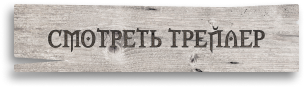
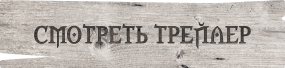
day two: added styles for desctop

diff --git a/index.html b/index.html
@@ -5,12 +5,17 @@
     <meta charset="UTF-8">
     <meta name="viewport" content="width=device-width, initial-scale=1.0">
     <title>The Witcher | Ведьмак | 2 сезон 17 декабря</title>
+    <link rel="preload" 
+          href="fonts/ibm-plex-mono-latin_cyrillic-500.woff2"
+          as="font"
+          type="font/woff2"
+          crossorigin>
     <link rel="stylesheet" href="css/index.css">
 </head>
 
 <body>
     <header class="header">
-        <div class="container">
+        <div class="container header__container">
             <img src="images/logo.svg" alt="logo: The Witcher" class="header__logo">
             <p class="header__announcment">
                 2 сезон уже с 17 декабря
@@ -45,7 +50,7 @@
                     Те, кто связан предназначением, всегда найдут друг друга
                 </p>
 
-                <a href="https://youtu.be/aTPPmHqMZOw" class="present__btn">Смотреть</a>
+                <a href="https://youtu.be/aTPPmHqMZOw" class="present__btn"></a>
             </div>
             <div class="present__tabs tabs">
                 <ul class="tabs__control">

diff --git a/css/product.css b/css/product.css
@@ -1,0 +1,61 @@
+.product {}
+
+.product__img {
+    width: 100%;
+    height: 176px;
+    object-fit: cover;
+    object-position: center;
+    margin-bottom: 10px;
+}
+
+.product__title {
+    font-size: 20px;
+    line-height: 120%;
+    margin-bottom: 5px;
+}
+
+.product__wrapper-buy {
+	display: flex;
+	justify-content: space-between;
+	align-items: center;
+}
+
+.product__price {
+
+}
+
+.product__btn-buy {
+	border-radius: 50%;
+	background-color: transparent;
+	display: flex;
+	justify-content: center;
+	align-items: center;
+	border: 1px solid transparent;
+	color: #fff;
+	width: 36px;
+	height: 36px;
+	outline: none;
+	transition: background-color .3s ease-in-out,
+				border-color .3s ease-in-out,
+				color .2s ease-in-out;
+}
+
+.product__btn-buy:hover {
+	background-color: rgba(255, 255, 255, 0.19);
+}
+
+.product__btn-buy:focus {
+	background-color: rgba(255, 255, 255, 0.19);
+	border-color: #9B9B9B;
+	color: #fff;
+}
+
+.product__btn-buy:active {
+	background-color: rgba(255, 255, 255, 0.19);
+	color: #b3b3b3;
+}
+
+.product__btn-icon {
+    width: 24px;
+    height: 24px;
+}

diff --git a/css/navigation.css b/css/navigation.css
@@ -1,0 +1,41 @@
+.navigation__list {
+	display: flex;
+	gap: 25px;
+}
+
+.navigation__link {
+	background-color: rgba(255, 255, 255, 0.7);
+	border: 1px solid transparent;
+	border-radius: 50%;
+	display: block;
+	width: 40px;
+	height: 40px;
+	transition: border .3s ease-in-out, box-shadow .3s ease-in-out;
+	outline: none;
+}
+
+.navigation__link:focus {
+	border-color: #5b5b5b;
+}
+
+.navigation__link:active, .navigation__link:hover {
+	box-shadow: 0px 1px 5px rgba(0, 0, 0, 0.7);
+}
+
+.navigation__link_netflix {
+	background-image: url('../images/netflix-logo.svg');
+	background-position: center;
+	background-repeat: no-repeat;
+}
+
+.navigation__link_okko {
+	background-image: url('../images/okko-logo.svg');
+	background-position: center;
+	background-repeat: no-repeat;
+}
+
+.navigation__link_kinopoisk {
+	background-image: url('../images/kinopoisk-logo.svg');
+	background-position: center;
+	background-repeat: no-repeat;
+}

diff --git a/css/tabs.css b/css/tabs.css
@@ -1,0 +1,55 @@
+.tabs__control {
+	display: flex;
+	justify-content: space-between;
+	align-items: center;
+	background-color: rgba(0, 0, 0, 0.7);
+	max-width: 285px;
+	margin-left: auto;
+	margin-bottom: 12px;
+	padding: 13px 21px;
+}
+
+.present__tabs {
+
+}
+
+.tabs__control {
+
+}
+
+.tabs__btn-wrapper {
+
+}
+
+.tabs__btn {
+	background-color: transparent;
+	border-width: 0;
+	border-bottom: 2px solid transparent;
+	color: #fff;
+	font-weight: bold;
+	line-height: 1.1;
+	transition: border-color .3s ease-in-out;
+}
+
+.tabs__btn_active {
+	border-color: #fff;
+}
+
+.tabs__list {
+
+}
+
+.tabs__item {
+
+}
+
+.tabs__item_active {
+
+}
+
+.tabs__content {
+	display: flex;
+	justify-content: space-between;
+	gap: 30px;
+}
+

diff --git a/css/present.css b/css/present.css
@@ -1,0 +1,33 @@
+.present {
+	padding-top: 25px;
+}
+
+.present__hero {
+	margin-bottom: 30px;
+}
+
+.present__title {
+	font-family: 'IBM Plex Mono';
+	font-weight: 500;
+	font-size: 90px;
+	line-height: 120%;
+	margin-bottom: 8px;
+}
+
+.present__tagline {
+	line-height: 130%;
+	margin-bottom: 54px;
+}
+
+.present__btn {
+	display: block;
+	background-image: url('../images/button.png');
+	background-position: center;
+	background-repeat: no-repeat;
+	background-size: cover;
+	filter: drop-shadow(-4px 6px 10px rgba(10, 10, 10, 0.51));
+	border-radius: 2px;
+	width: 285px;
+	height: 68px;
+}
+

diff --git a/css/card.css b/css/card.css
@@ -1,0 +1,35 @@
+.card {
+
+}
+
+.card_video {
+	flex-basis: 285px;
+}
+
+.card__link {
+
+}
+
+.card__video-img {
+	width: 100%;
+	height: 146px;
+	object-fit: cover;
+	object-position: center;
+	margin-bottom: 10px;
+}
+
+.card_img {
+	flex-basis: 255px;
+}
+
+.card__photo-img {
+	width: 100%;
+	height: 206px;
+	object-fit: cover;
+	object-position: center;
+}
+
+.card_product {
+	flex-basis: 285px;
+}
+

diff --git a/css/header.css b/css/header.css
@@ -1,0 +1,23 @@
+.header {
+	padding-top: 20px;
+	padding-bottom: 10px;
+}
+
+.header__container {
+	display: grid;
+	grid-template-columns: repeat(3, 1fr);
+	align-items: center;
+}
+
+.header__logo {
+
+}
+
+.header__announcment {
+	justify-self: center;
+}
+
+.header__navigation {
+	justify-self: end;
+}
+

diff --git a/css/index.css b/css/index.css
@@ -1,3 +1,14 @@
 @import 'normalize.css';
 @import 'fonts.css';
 @import 'page.css';
+@import 'header.css';
+@import 'navigation.css';
+@import 'present.css';
+@import 'tabs.css';
+@import 'card.css';
+@import 'product.css';
+
+
+
+
+
